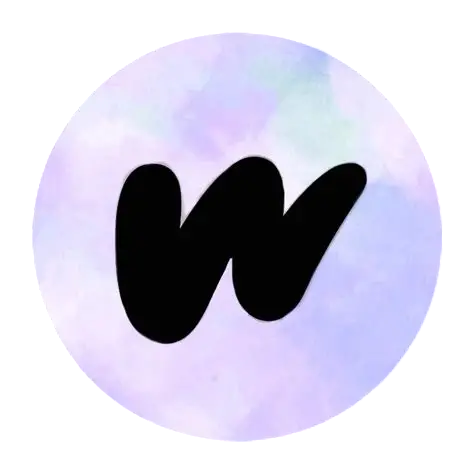
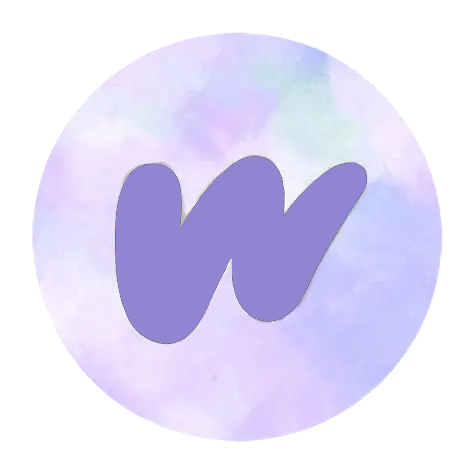
images

Changed region(s): [[0.2363, 0.3249, 0.7975, 0.7384]]

diff --git a/projects.html b/projects.html
@@ -22,8 +22,10 @@
 <section id="projects">
   <h2>Projects</h2>
 <a href="https://stardance.hackclub.com/@BossLoach/projects" class="projlink"><img class="hackclub" src="images/hackclub.png" alt="hackclub"></a>
-<a href="https://www.wattpad.com/1576866703?utm_source=ios&utm_medium=whatsapp&utm_content=share_reading&wp_page=reading&wp_uname=Willowet2009"><img class="hackclub" src="images/wattpad.png" alt="Wattpad"></a> </button>
-<a href="https://pin.it/7yrGGIbkW"><img class="hackclub" src="images/pinterest.png" alt="Pinterest"></a> </button>
+<a href="https://www.wattpad.com/1576866703?utm_source=ios&utm_medium=whatsapp&utm_content=share_reading&wp_page=reading&wp_uname=Willowet2009"><img class="hackclub" src="images/wattpad-recolored.png" alt="Wattpad"></a> </button>
+<a href="https://pin.it/7yrGGIbkW"><img class="hackclub" src="images/pinterest.png" alt="Pinterest"></a> 
+<a href="https://en.pronouns.page/@Willowet2009"><img class="hackclub" src="images/pronouns-page-recolored.png" alt="Pronouns"></a>
+<a href="https://willowet2009.carrd.co/"><img class="hackclub" src="images/carrd.png" alt="Carrd"></a>
 
   </p>
    

diff --git a/style.css b/style.css
@@ -269,8 +269,8 @@ h3{
     height: 200px;
     display: inline-block;
     border: 3px none;
-    border-radius: 150px;
-    padding: 5px 20px;
+    border-radius: 200px;
+    padding: 20px 20px;
     text-align: center;
     text-decoration: none;
     margin: 4px 2px;
